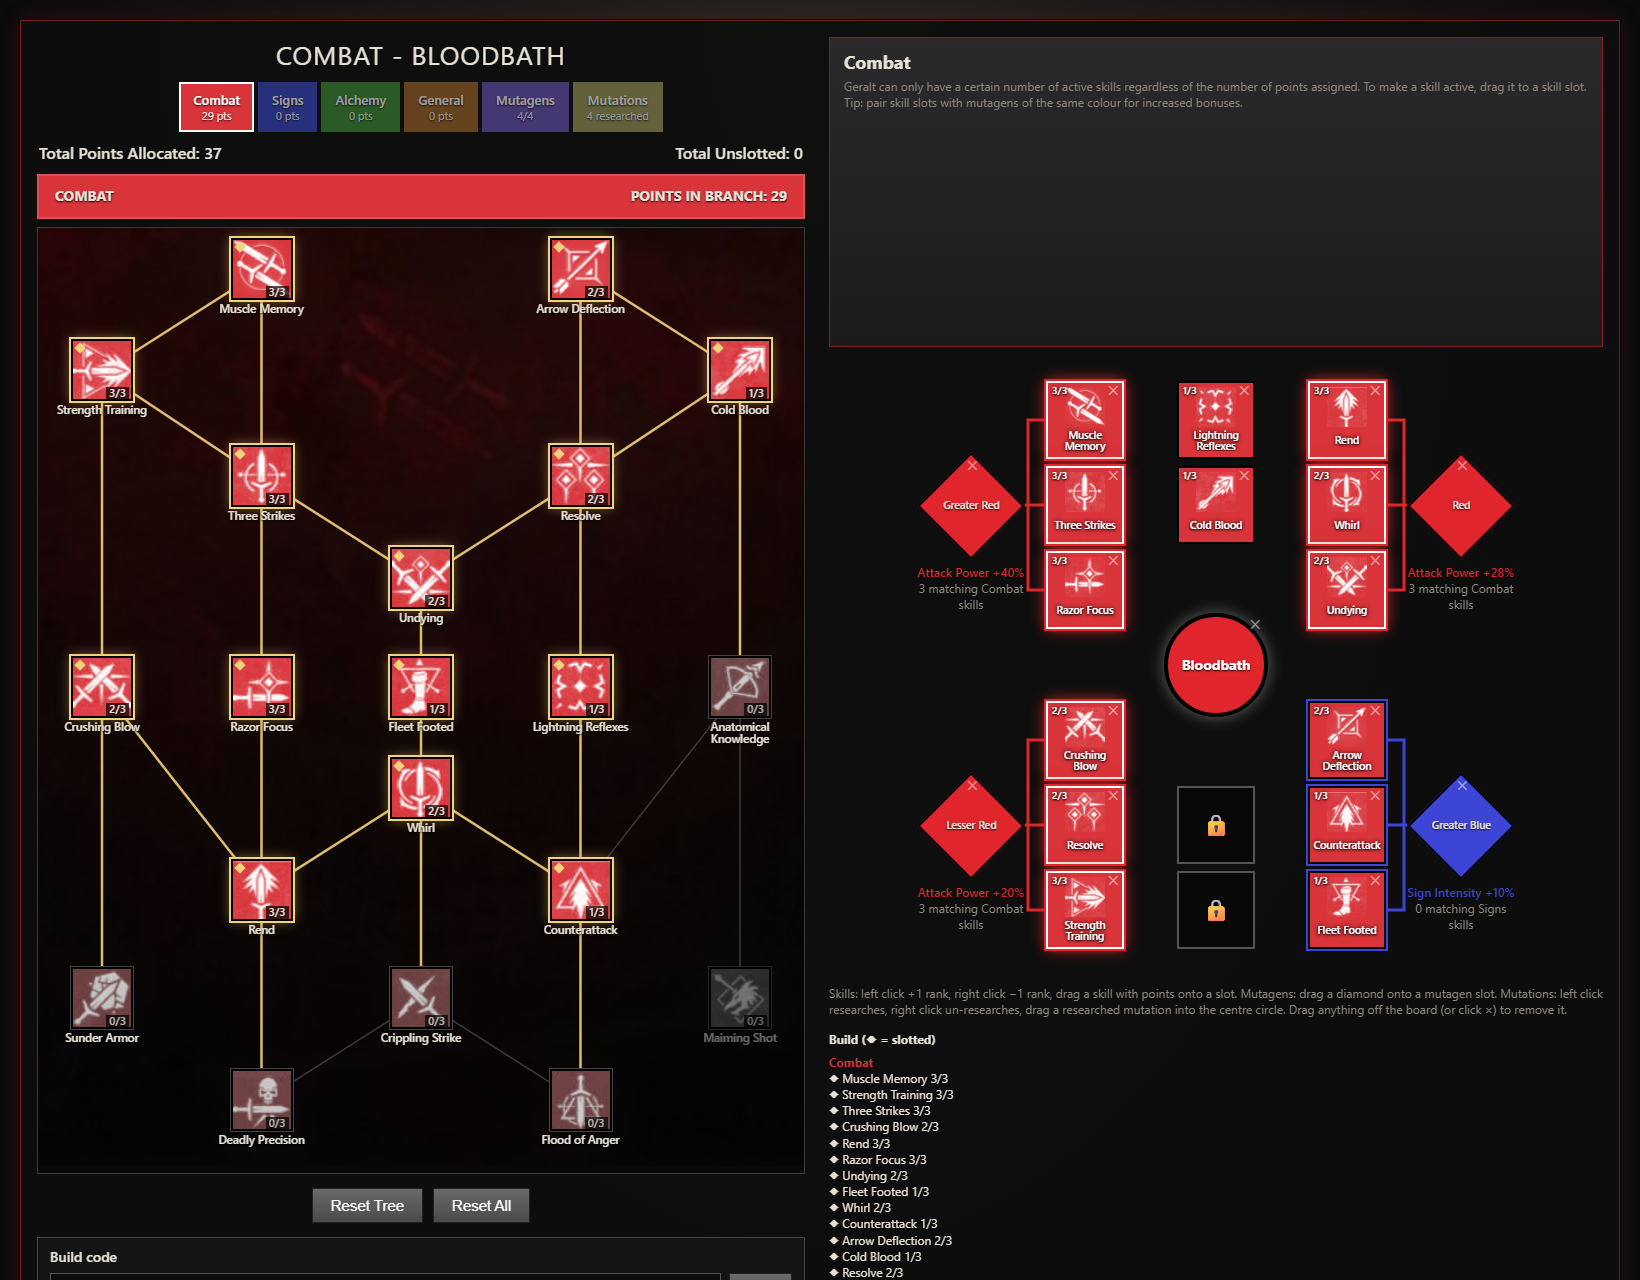
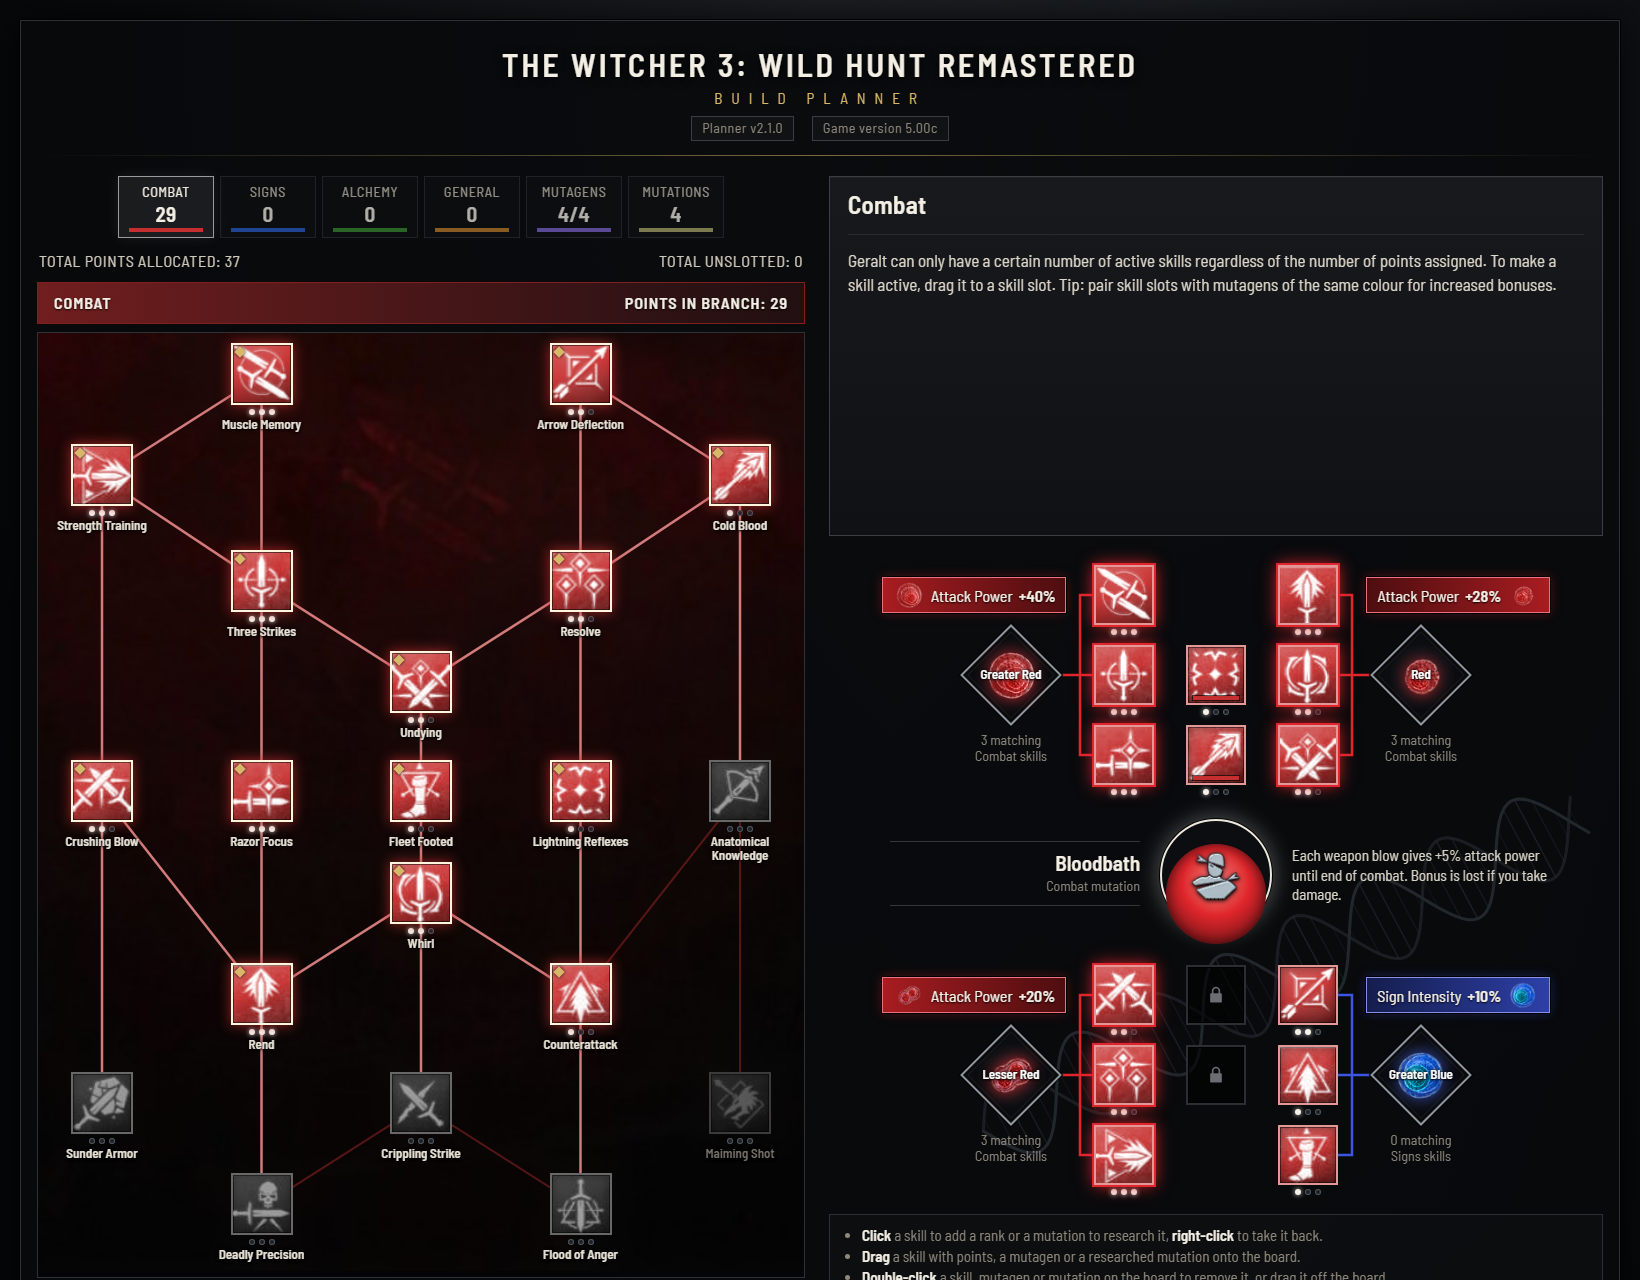
Release 2.1.0

diff --git a/CHANGELOG.md b/CHANGELOG.md
@@ -1,5 +1,25 @@
 # Changelog
 
+## 2.1.0 - 2026-10-02
+
+- The header names The Witcher 3: Wild Hunt Remastered, with the planner version and the game version
+  the data matches (5.00c). The build title above the tree is gone.
+- Build codes are short: a few points take a dozen characters, a full build about 50 instead of 71.
+  Codes and links from 1.x and 2.0 keep opening the same build.
+- The build lives in the page address as `?build=`, and nothing is stored in the browser. A plain
+  address, Reset All or an empty build leave the address without a code. A Copy link button sits next to
+  Copy.
+- The slot board follows the in-game character screen: each group has a bar with its mutagen bonus,
+  mutagens are orbs in silver diamonds, and the slotted mutation sits in the middle with its name and
+  description beside it.
+- Skills show their rank as three pips, links take the tree's colour, and a skill without points is a
+  dark tile as in the game.
+- Hovering a skill in a tree or on the board opens the in-game tooltip with the current and next level,
+  and the info panel still lists all three ranks with more room and larger text.
+- Mutations show their in-game emblems, with the name under the disc, so long names fit.
+- A double click takes a skill, mutagen or mutation off the board, the small remove buttons are gone.
+- The mutagen bonus caption reads "3 matching" over "Combat skills" and keeps clear of the bracket.
+
 ## 2.0.1 - 2026-10-02
 
 - A two-line skill name in slots 13-16 is no longer cut off by the colour bar.
